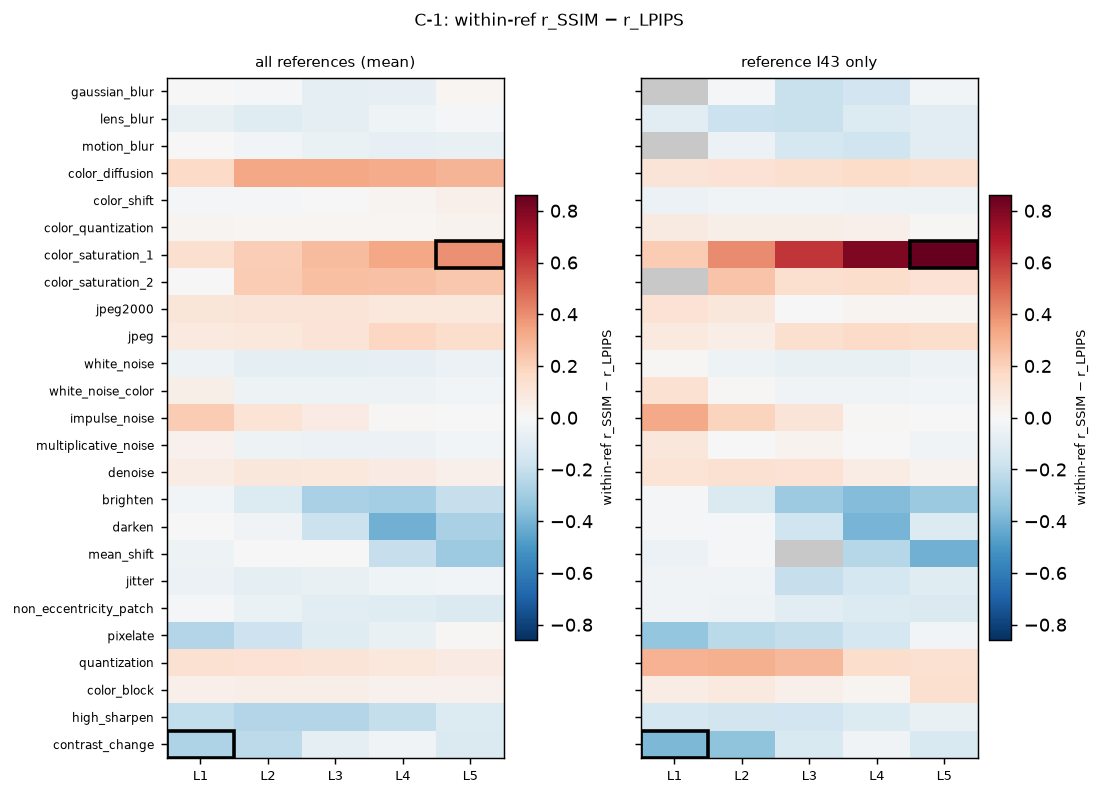
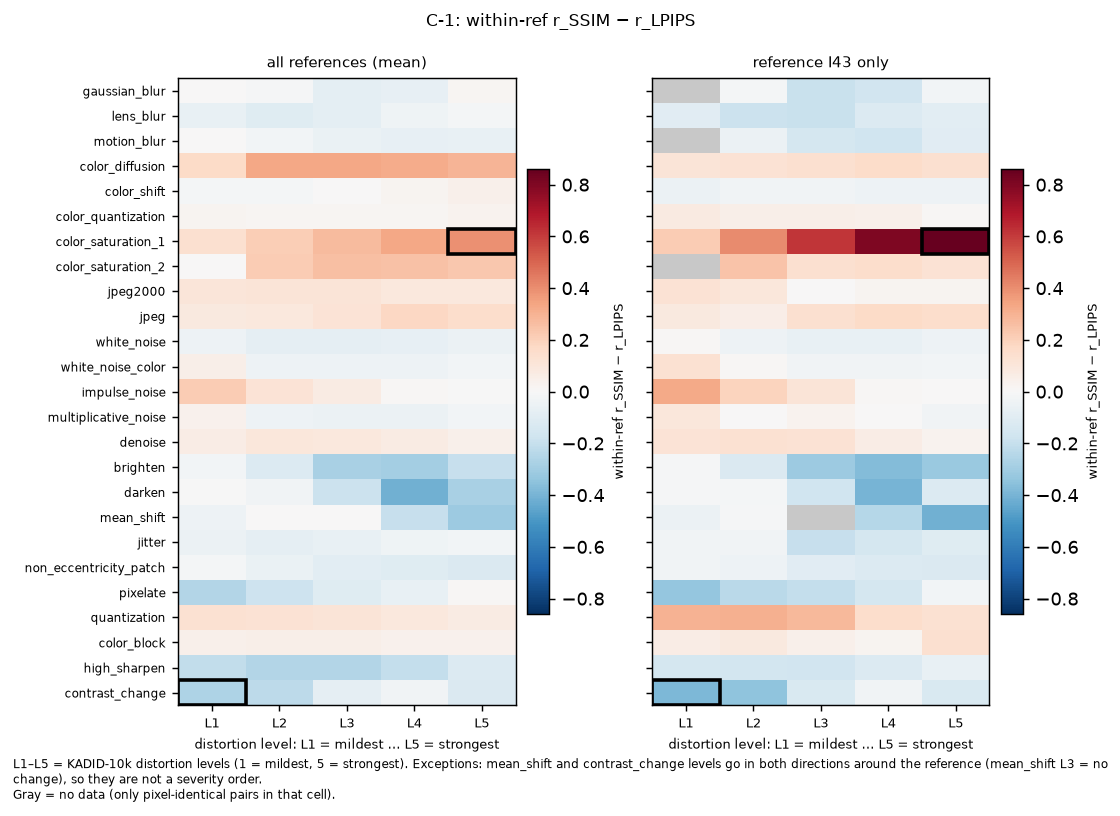
B-26: heatmap level legend (L1 mildest .. L5 strongest); MS-SSIM scale-by-scale preview figures
- viz: x-axis label + footnote on all type x level heatmaps; msssim_scales_figure()
- ssim_variants.ms_ssim_scales() reproduces pyiqa MS-SSIM (test, 23 pass)
- results/figures/selected/{A-1,A-2,B-1,B-2}_msssim_scales.png, linked in report §4

diff --git a/src/humper/viz.py b/src/humper/viz.py
@@ -83,6 +83,11 @@ def pair_figure(row_i: pd.Series, row_j: pd.Series, note: str = "") -> plt.Figur
     return fig
 
 
+LEVEL_LABEL = "distortion level: L1 = mildest … L5 = strongest"
+LEVEL_FOOTNOTE = ("L1–L5 = KADID-10k distortion levels (1 = mildest, 5 = strongest). Exceptions: mean_shift and contrast_change "
+                  "levels go in both directions around the reference (mean_shift L3 = no change), so they are not a severity order.")
+
+
 def grid_heatmap(ax: plt.Axes, g: pd.DataFrame, title: str, lim: float, highlight=(), cbar_label: str = "") -> None:
     """One distortion-type x level grid on a diverging blue-red scale centred at 0.
     `highlight` = [(dist_name, level), ...] cells outlined in black (the selected images).
@@ -92,6 +97,7 @@ def grid_heatmap(ax: plt.Axes, g: pd.DataFrame, title: str, lim: float, highligh
     ax.set_xticks(range(g.shape[1]), [f"L{c}" for c in g.columns], fontsize=7)
     ax.set_yticks(range(g.shape[0]), g.index, fontsize=6.5)
     ax.set_title(title, fontsize=8.5)
+    ax.set_xlabel(LEVEL_LABEL, fontsize=7)
     for name, level in highlight:
         y, x = list(g.index).index(name), list(g.columns).index(level)
         ax.add_patch(plt.Rectangle((x - 0.5, y - 0.5), 1, 1, fill=False, lw=2, ec="black"))
@@ -106,7 +112,8 @@ def case_heatmaps(g_all: pd.DataFrame, g_ref: pd.DataFrame, ref_id: int, highlig
     grid_heatmap(axes[1], g_ref, f"reference I{ref_id:02d} only", lim, highlight, label)
     axes[1].set_yticklabels([])
     fig.suptitle(title, fontsize=9.5)
-    fig.tight_layout()
+    fig.tight_layout(rect=(0, 0.04, 1, 1))
+    fig.text(0.01, 0.005, LEVEL_FOOTNOTE + "\nGray = no data (only pixel-identical pairs in that cell).", fontsize=6.5, wrap=True)
     return fig
 
 
@@ -119,8 +126,9 @@ def srcc_grid_figure(tables: dict[str, pd.DataFrame]) -> plt.Figure:
         ax.set_xticks(range(g.shape[1]), [f"L{c}" for c in g.columns], fontsize=7)
         ax.set_yticks(range(g.shape[0]), g.index, fontsize=6.5)
         ax.set_title(LABELS[name], fontsize=9)
+        ax.set_xlabel("level (L1 mild → L5 strong)", fontsize=7)
     fig.colorbar(im, ax=axes, fraction=0.02, pad=0.01).set_label("SRCC within cell (81 references)", fontsize=7)
-    fig.text(0.01, 0.01, "gray = no data (cell held only pixel-identical pairs)", fontsize=7)
+    fig.text(0.01, -0.03, LEVEL_FOOTNOTE + "\nGray = no data (cell held only pixel-identical pairs).", fontsize=7)
     return fig
 
 
@@ -169,4 +177,36 @@ def type_heatmap(srcc_by_type: pd.DataFrame) -> plt.Figure:
             ax.text(x, y, f"{v:.2f}", ha="center", va="center", fontsize=6.5, color="white" if abs(v) > 0.6 else "black")
     fig.colorbar(im, ax=ax, fraction=0.05, pad=0.02).set_label("SRCC within distortion type (405 images)", fontsize=7)
     fig.tight_layout()
+    return fig
+
+
+def msssim_scales_figure(row: pd.Series, title: str = "") -> plt.Figure:
+    """MS-SSIM scale by scale. Row 1: the original (reference) image at each scale (2x2 average pooling
+    between scales). Row 2: the map MS-SSIM uses at that scale for the distorted image, shown as damage
+    (1 - cs; 1 - SSIM at scale 5), with its mean, weight and factor mean**weight.
+    MS-SSIM = product of the factors."""
+    import torch.nn.functional as F
+
+    from humper.ssim_variants import luma255, ms_ssim_scales
+
+    ref, dist = load_image(row["ref_path"]), load_image(row["dist_path"])
+    scales = ms_ssim_scales(luma255(ref), luma255(dist))
+    vmax = max(float((1 - d["map"]).max()) for d in scales) or 1.0
+    fig, axes = plt.subplots(2, len(scales), figsize=(3.0 * len(scales), 5.0))
+    rgb = ref[None]
+    for k, d in enumerate(scales):
+        h, w = d["x"].shape
+        axes[0, k].imshow(rgb[0].permute(1, 2, 0).numpy(), interpolation="nearest")
+        axes[0, k].set_title(f"scale {d['scale']}: {w}×{h} px" + (" (SSIM's only scale)" if k == 0 else ""), fontsize=8)
+        im = axes[1, k].imshow(1 - d["map"], cmap="magma", vmin=0, vmax=vmax, interpolation="nearest")
+        term = "cs" if k < len(scales) - 1 else "l·cs"
+        axes[1, k].set_title(f"mean {term} = {d['mean']:.3f}, weight w = {d['weight']:.3f}\nfactor ({term})^w = {d['mean'] ** d['weight']:.3f}", fontsize=7.5)
+        rgb = F.avg_pool2d(rgb, 2)
+        for ax in axes[:, k]:
+            ax.axis("off")
+    axes[0, 0].text(-0.08, 0.5, "original (reference)", transform=axes[0, 0].transAxes, rotation=90, va="center", ha="right", fontsize=9)
+    axes[1, 0].text(-0.08, 0.5, "MS-SSIM damage map (1 − cs)", transform=axes[1, 0].transAxes, rotation=90, va="center", ha="right", fontsize=9)
+    fig.colorbar(im, ax=axes[1, :], fraction=0.015, pad=0.01).set_label("damage (0 = identical)", fontsize=7)
+    head = f"{row['id']} ({row['dist_name']}, L{row['level']}): MS-SSIM {row['ms_ssim']:.3f} = product of factors; SSIM {row['ssim']:.3f}; MOS {row['mos']:.2f}"
+    fig.suptitle((title + "\n" if title else "") + head, fontsize=9.5)
     return fig

diff --git a/src/humper/ssim_variants.py b/src/humper/ssim_variants.py
@@ -44,3 +44,23 @@ VARIANTS = {
     "ssim_ds": dict(clamp_cs=True, down=True),
     "ssim_ds_noclamp": dict(clamp_cs=False, down=True),
 }
+
+
+MS_WEIGHTS = [0.0448, 0.2856, 0.3001, 0.2363, 0.1333]
+
+
+def ms_ssim_scales(x: np.ndarray, y: np.ndarray) -> list[dict]:
+    """MS-SSIM as pyiqa computes it, one dict per scale: the luma images at that scale and the map
+    that enters the product (cs at scales 1-4, full SSIM = l * cs at scale 5), its mean and weight.
+    MS-SSIM = prod(mean_k ** weight_k). Downsampling = 2x2 average pooling between scales."""
+    out = []
+    for k, w in enumerate(MS_WEIGHTS):
+        f = lambda a: gaussian_filter(a, 1.5, truncate=3.5)[5:-5, 5:-5]  # noqa: E731
+        mx, my = f(x), f(y)
+        sxx, syy, sxy = f(x * x) - mx**2, f(y * y) - my**2, f(x * y) - mx * my
+        cs = np.maximum((2 * sxy + C2) / (sxx + syy + C2), 0)
+        m = cs if k < len(MS_WEIGHTS) - 1 else cs * (2 * mx * my + C1) / (mx**2 + my**2 + C1)
+        out.append({"scale": k + 1, "x": x, "y": y, "map": m, "mean": float(m.mean()), "weight": w})
+        pool = lambda a: a[: a.shape[0] // 2 * 2, : a.shape[1] // 2 * 2].reshape(a.shape[0] // 2, 2, a.shape[1] // 2, 2).mean((1, 3))  # noqa: E731
+        x, y = pool(x), pool(y)
+    return out

diff --git a/tests/test_sanity.py b/tests/test_sanity.py
@@ -162,3 +162,15 @@ def test_ssim_variants_match_pyiqa(sample):
         yd, yr = (to_y_channel(t[None], 255, "yiq").double() for t in (dist[i], ref[i]))
         want = float(pyiqa_ssim(yd, yr, data_range=255, downsample=True))
         assert ssim(x, y, down=True) == pytest.approx(want, abs=1e-4), rows.id[i]
+
+
+@needs_data
+@needs_scores
+def test_ms_ssim_scales_reproduce_pyiqa(sample):
+    """The scale-by-scale MS-SSIM used for figures multiplies back to the committed pyiqa MS-SSIM."""
+    from humper.ssim_variants import luma255, ms_ssim_scales
+
+    rows, dist, ref = sample
+    for i in range(1, len(rows)):
+        sc = ms_ssim_scales(luma255(ref[i]), luma255(dist[i]))
+        assert np.prod([d["mean"] ** d["weight"] for d in sc]) == pytest.approx(rows.ms_ssim[i], abs=1e-5), rows.id[i]

diff --git a/report/report_draft.md b/report/report_draft.md
@@ -36,7 +36,7 @@ LPIPS-VGG and DISTS share the same VGG16 backbone, so differences between them c
 - LPIPS and DISTS receive RGB.
 - Scoring all pairs took 40 min on an M2 Pro: deep metrics on MPS, traditional metrics on CPU (D-17).
 
-**Correctness checks** (`tests/`, 22 tests):
+**Correctness checks** (`tests/`, 23 tests):
 - An identical pair gets the perfect score.
 - PSNR matches `skimage` within 5e-5 dB.
 - SSIM matches a textbook implementation (which itself matches `skimage` to 1e-6), apart from one documented difference: pyiqa clamps a negative contrast-structure term to 0 (D-20, effect quantified in §3).
@@ -142,6 +142,7 @@ Full candidate lists: `results/failures/candidates_{A,B,C}.csv`. Selection: `res
 
 ![SRCC by type](../results/figures/quant/srcc_by_type.png)
 ![SRCC by type and level](../results/figures/selected/srcc_type_level.png)
+*SRCC inside each (distortion type, level) cell, 81 images per cell. x-axis: distortion level L1 (mildest) … L5 (strongest).*
 
 **Interpretation (draft, B-10):**
 1. **No metric wins everywhere.** MS-SSIM has the best overall SRCC (0.826) and wins 5 of 7 groups. DISTS wins blur and PSNR wins brightness. On blur, compression, and sharpness/contrast every metric is within 0.08 of the best.
@@ -170,6 +171,8 @@ Full candidate lists: `results/failures/candidates_{A,B,C}.csv`. Selection: `res
 
 ## 4. Failure Cases
 
+**Reading the heatmaps:** the x-axis L1–L5 is the KADID-10k distortion level, from 1 (mildest) to 5 (strongest). The exceptions are mean shift and contrast change, whose levels go in both directions around the reference (mean-shift L3 = no change). Gray cells hold only pixel-identical pairs.
+
 Each case shows a figure (reference | distorted | |diff| | 1−SSIM map | LPIPS-VGG map, with scores and global ranks $r$) and a heatmap. The heatmap's left panel is the case's signed score averaged per (type, level) cell over all references; the right panel is the selected image's reference; the black box marks the selected image.
 
 Each case shows a figure (reference | distorted | |diff| | 1−SSIM map | LPIPS-VGG map, with scores and global ranks) and a heatmap. The heatmap's left panel is the case's signed score averaged per cell over all references; the right panel is the selected image's reference. The black box marks the selected image.
@@ -178,6 +181,8 @@ Each case shows a figure (reference | distorted | |diff| | 1−SSIM map | LPIPS-
 
 ![A-1](../results/figures/selected/A-1_images.png)
 ![A-1 heatmap](../results/figures/selected/A-1_heatmap.png)
+![A-1 MS-SSIM scales](../results/figures/selected/A-1_msssim_scales.png)
+*MS-SSIM scale by scale. Row 1: the original image at each scale. Row 2: where MS-SSIM sees damage. The sun halo and the rock/sky edge become dominant at scales 3–5, where the weights are largest.*
 
 | | PSNR | SSIM | MS-SSIM | LPIPS-VGG | DISTS | MOS |
 |---|---|---|---|---|---|---|
@@ -212,6 +217,8 @@ Each case shows a figure (reference | distorted | |diff| | 1−SSIM map | LPIPS-
 
 ![B-1](../results/figures/selected/B-1_images.png)
 ![B-1 heatmap](../results/figures/selected/B-1_heatmap.png)
+![B-1 MS-SSIM scales](../results/figures/selected/B-1_msssim_scales.png)
+*MS-SSIM scale by scale: the damage is below 0.05 at every scale (note the colour-bar range). No scale sees the yellow cast, because it is in chroma.*
 
 | | PSNR | SSIM | MS-SSIM | LPIPS-VGG | DISTS | MOS |
 |---|---|---|---|---|---|---|
